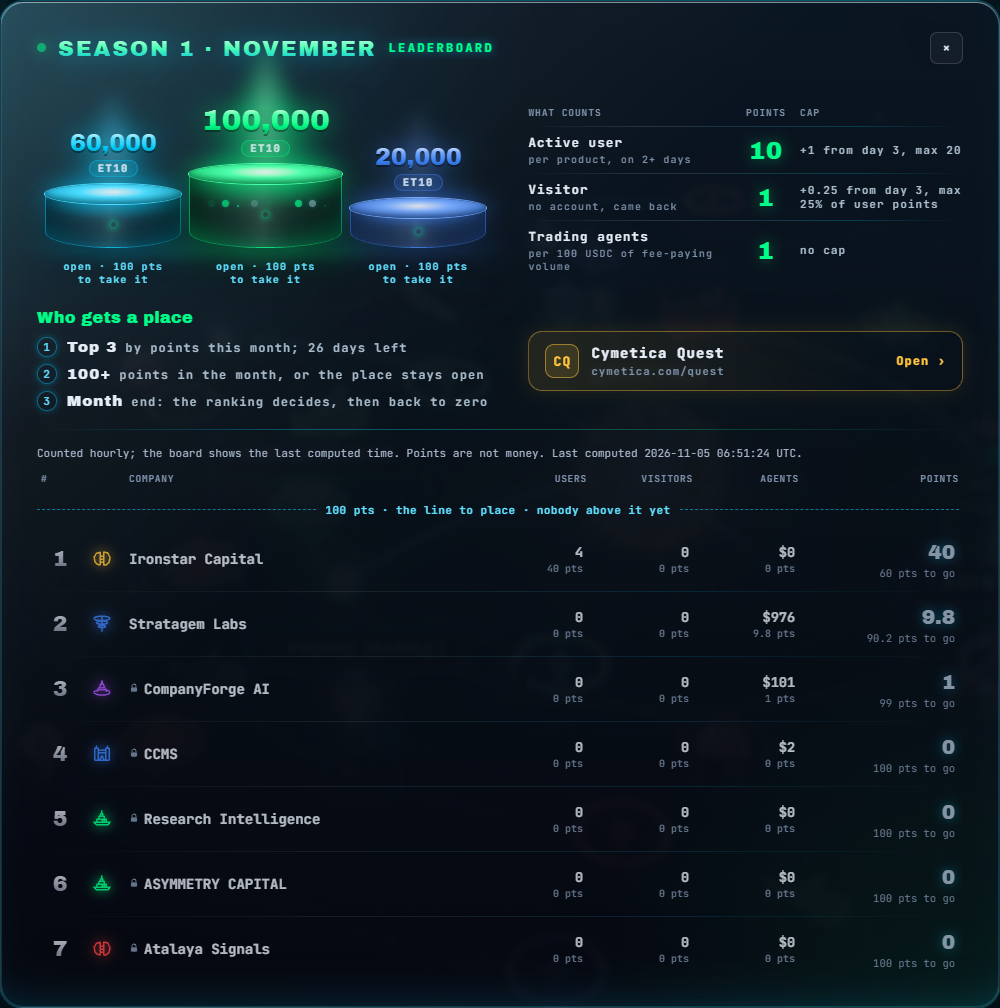
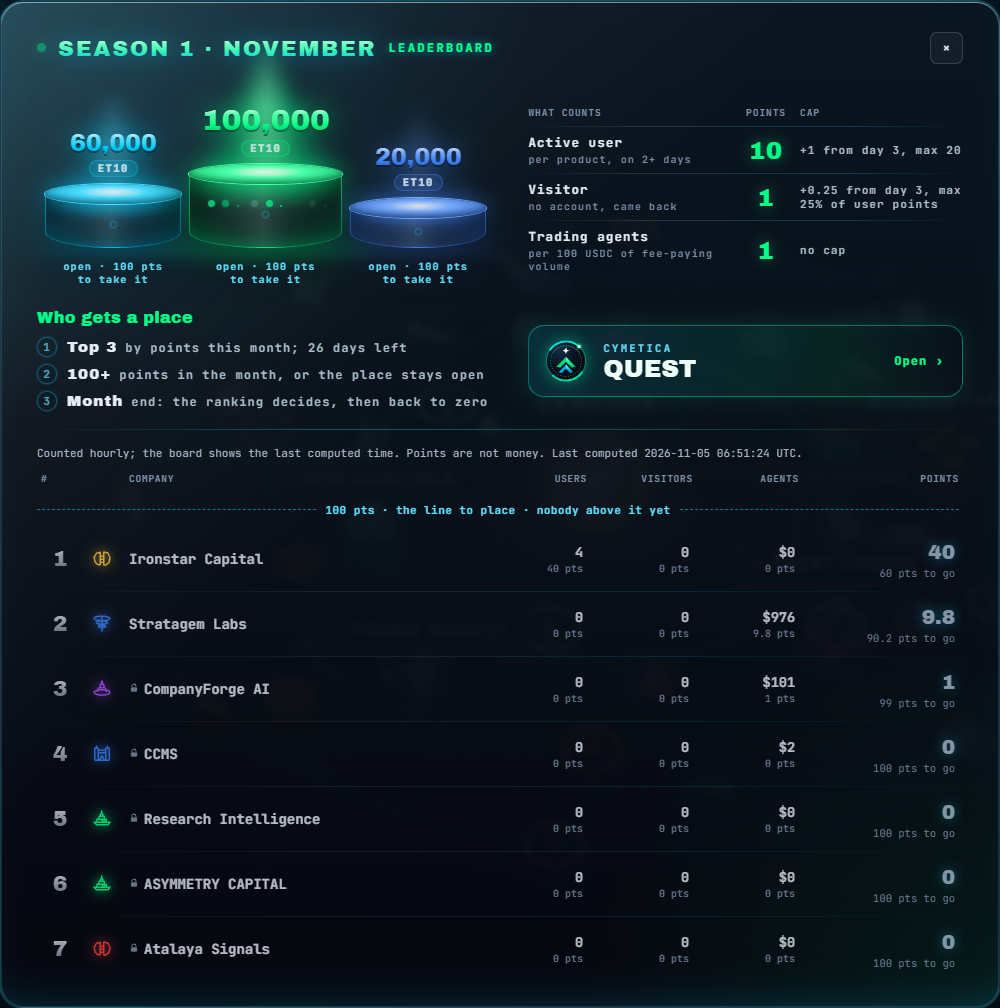
Season board mock: the Quest card in the Quest's own mark and colours.

Changed region(s): [[0.527, 0.3075, 0.713, 0.3998], [0.899, 0.3383, 0.93, 0.369]]

diff --git a/outbox/company-live/uvboard.js b/outbox/company-live/uvboard.js
@@ -77,6 +77,22 @@
         (openLine ? '<em class="pod-open">' + openLine + '</em>' : '') + '</div>';
     }).join('') + '<span class="pod-floor"></span>';
   }
+  // the Quest's own mark, copied from cymetica.com/quest (its header brand), ids renamed so they cannot meet the page's
+  var QUEST_MARK = '<svg class="lq-m" width="46" height="46" viewBox="0 0 64 64" aria-hidden="true"><defs>' +
+    '<radialGradient id="lq-core" cx="36%" cy="26%" r="74%"><stop offset="0" stop-color="#142b44"/><stop offset=".55" stop-color="#08121e"/><stop offset="1" stop-color="#04080f"/></radialGradient>' +
+    '<linearGradient id="lq-brand" x1="0" y1="0" x2="1" y2="1"><stop offset="0" stop-color="#00cfff"/><stop offset="1" stop-color="#00ff88"/></linearGradient>' +
+    '<linearGradient id="lq-hi" x1="0" y1="0" x2="0" y2="1"><stop offset="0" stop-color="#d6ffed"/><stop offset=".45" stop-color="#00ff88"/><stop offset="1" stop-color="#00b86b"/></linearGradient>' +
+    '<linearGradient id="lq-lo" x1="0" y1="0" x2="0" y2="1"><stop offset="0" stop-color="#a8f3ff"/><stop offset=".5" stop-color="#00cfff"/><stop offset="1" stop-color="#007eb8"/></linearGradient></defs>' +
+    '<circle cx="32" cy="32" r="27" fill="url(#lq-core)"/>' +
+    '<path d="M13.5 20.5A22.5 22.5 0 0 1 50.5 20.5" fill="none" stroke="#ffffff" stroke-opacity=".2" stroke-width="1.1" stroke-linecap="round"/>' +
+    '<circle cx="32" cy="32" r="27.2" fill="none" stroke="url(#lq-brand)" stroke-width="1.35" opacity=".42"/>' +
+    '<path d="M9.8 16.5A27.2 27.2 0 0 1 50.2 11.8" fill="none" stroke="url(#lq-brand)" stroke-width="2.7" stroke-linecap="round"/>' +
+    '<path d="M54.2 47.5A27.2 27.2 0 0 1 13.8 52.2" fill="none" stroke="url(#lq-brand)" stroke-width="2.7" stroke-linecap="round" opacity=".88"/>' +
+    '<circle cx="50.2" cy="11.8" r="4.2" fill="#00ff88" opacity=".32"/><circle cx="50.2" cy="11.8" r="2.1" fill="#effff7"/>' +
+    '<circle cx="32" cy="32" r="21.5" fill="none" stroke="url(#lq-brand)" stroke-width="1.2" stroke-dasharray="1.15 2.6025" opacity=".68"/>' +
+    '<path d="M32 36.8 21.8 47.6l4.4 1.2L32 42.4Z" fill="#00a8e0"/><path d="M32 36.8 42.2 47.6 37.8 48.8 32 42.4Z" fill="url(#lq-lo)"/>' +
+    '<path d="M32 26.2 18.8 39.8l5.1 1.4L32 33.1Z" fill="#00d878"/><path d="M32 26.2 45.2 39.8l-5.1 1.4L32 33.1Z" fill="url(#lq-hi)"/>' +
+    '<path d="M32 12.8l1.3 3.5 3.5 1.3-3.5 1.3-1.3 3.5-1.3-3.5-3.5-1.3 3.5-1.3Z" fill="#f2fff9"/></svg>';
   // ?season0&live: the board as the live site fills it (season-live.js is a copy of /api/v1/company/season), with the podium as we drew it
   // and every company's station as that company chose it
   function tableLive() {
@@ -104,7 +120,7 @@
       '<div class="lb-rule s0 live"><div class="lb-pod">' + podium(S.prizes_et10, 'open · ' + q + ' pts to take it') + '</div>' +
         '<div class="lb-pt"><div class="lb-pt-h"><span>What counts</span><span>Points</span><span>Cap</span></div>' + counts + '</div>' +
         '<div class="lb-who"><h4>Who gets a place</h4>' + who + '</div>' +
-        '<a class="lb-quest" href="/quest"><span class="lq-i">CQ</span><span class="lq-t"><b>Cymetica Quest</b><small>cymetica.com/quest</small></span><span class="lq-go">Open ›</span></a></div>' +
+        '<a class="lb-quest" href="/quest">' + QUEST_MARK + '<span class="lq-t"><small>CYMETICA</small><b>QUEST</b></span><span class="lq-go">Open ›</span></a></div>' +
       '<p class="lb-sub">' + S.note + ' Last computed ' + S.computed_at.replace('T', ' ').replace('Z', ' UTC') + '.</p>' +
       '<div class="lb-head s0"><span>#</span><span></span><span>Company</span><span>Users</span><span>Visitors</span><span>Agents</span><span>Points</span></div>' +
       '<div class="lb">' + rows + '</div>';

diff --git a/outbox/company-live/uvpanel.css b/outbox/company-live/uvpanel.css
@@ -291,12 +291,14 @@ a.uvr { color: var(--text); text-decoration: none; } a.uvr:hover { background: v
 .live .pod { gap: 7px; }
 .pod-open { position: absolute; left: -6%; right: -6%; top: 100%; margin-top: 12px; text-align: center; font-style: normal; font-size: 10px; line-height: 1.3; color: #5fe0ff; }
 .live .lb-who { align-self: start; }
-.lb-quest { display: flex; align-items: center; gap: 12px; justify-self: stretch; padding: 12px 16px; border-radius: 14px; text-decoration: none; color: var(--text);
-  border: 1px solid rgba(255, 196, 61, .4); background: linear-gradient(90deg, rgba(255, 196, 61, .1), rgba(255, 196, 61, 0) 80%); box-shadow: 0 0 18px rgba(255, 196, 61, .12); }
-.lb-quest .lq-i { display: grid; place-items: center; width: 34px; height: 34px; border-radius: 9px; font: 800 13px 'JetBrains Mono', monospace; color: #ffc43d;
-  background: rgba(255, 196, 61, .12); border: 1px solid rgba(255, 196, 61, .5); }
-.lb-quest .lq-t { flex: 1; display: grid; gap: 2px; } .lb-quest .lq-t b { font-size: 14px; } .lb-quest .lq-t small { font-size: 10.5px; color: var(--dim2); }
-.lb-quest .lq-go { font-size: 12px; font-weight: 800; color: #ffc43d; }
+/* the Quest's own colours (cymetica.com/quest): cyan into green on a dark ground, its mark, its two-line wordmark */
+.lb-quest { display: flex; align-items: center; gap: 14px; justify-self: stretch; padding: 12px 18px 12px 14px; border-radius: 16px; text-decoration: none; color: var(--text);
+  border: 1px solid rgba(0, 255, 200, .38); background: linear-gradient(90deg, rgba(0, 207, 255, .12), rgba(0, 255, 136, .08) 70%, rgba(0, 255, 136, 0)); box-shadow: 0 0 22px rgba(0, 255, 160, .12); }
+.lb-quest .lq-m { flex: none; filter: drop-shadow(0 0 8px rgba(0, 255, 160, .45)); }
+.lb-quest .lq-t { flex: 1; display: grid; gap: 1px; line-height: 1; }
+.lb-quest .lq-t small { font: 700 10.5px 'JetBrains Mono', monospace; letter-spacing: .22em; color: #5fe0ff; }
+.lb-quest .lq-t b { font: 400 24px/1.05 'Archivo Black', sans-serif; letter-spacing: .01em; color: #effff7; }
+.lb-quest .lq-go { font-size: 12px; font-weight: 800; color: #00ff88; }
 .lb-rule.s0 > .lb-pt { margin-top: 0; }
 .lb-rule.s0 .lb-who { padding: 0; }
 .lb-rule.s0 .lb-c span { white-space: nowrap; }
